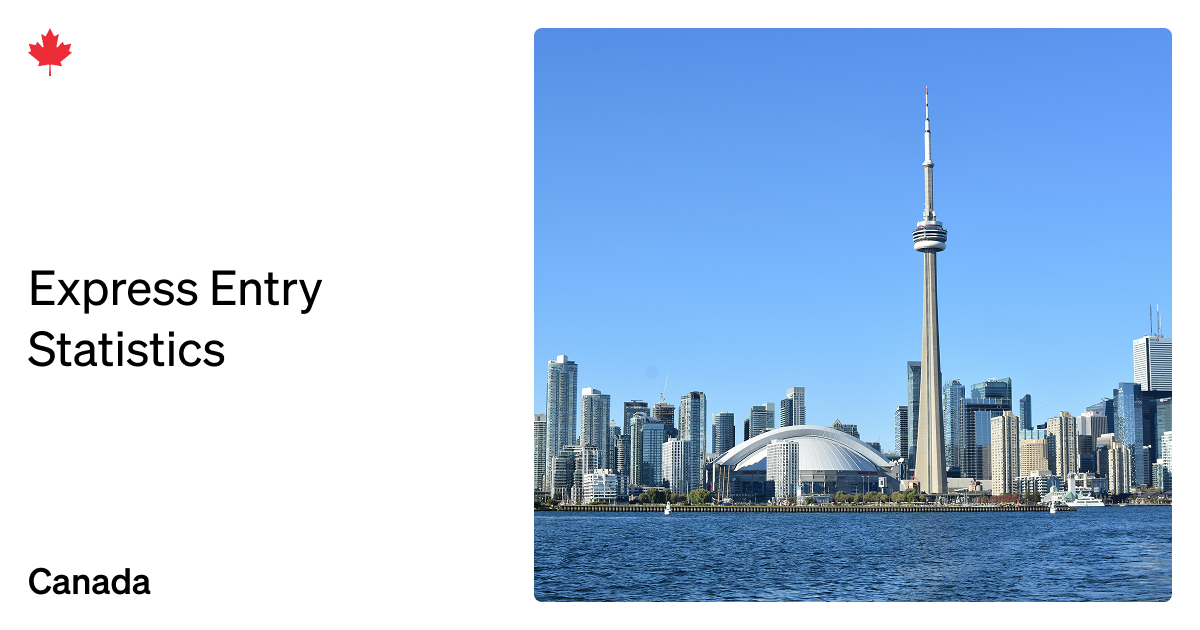
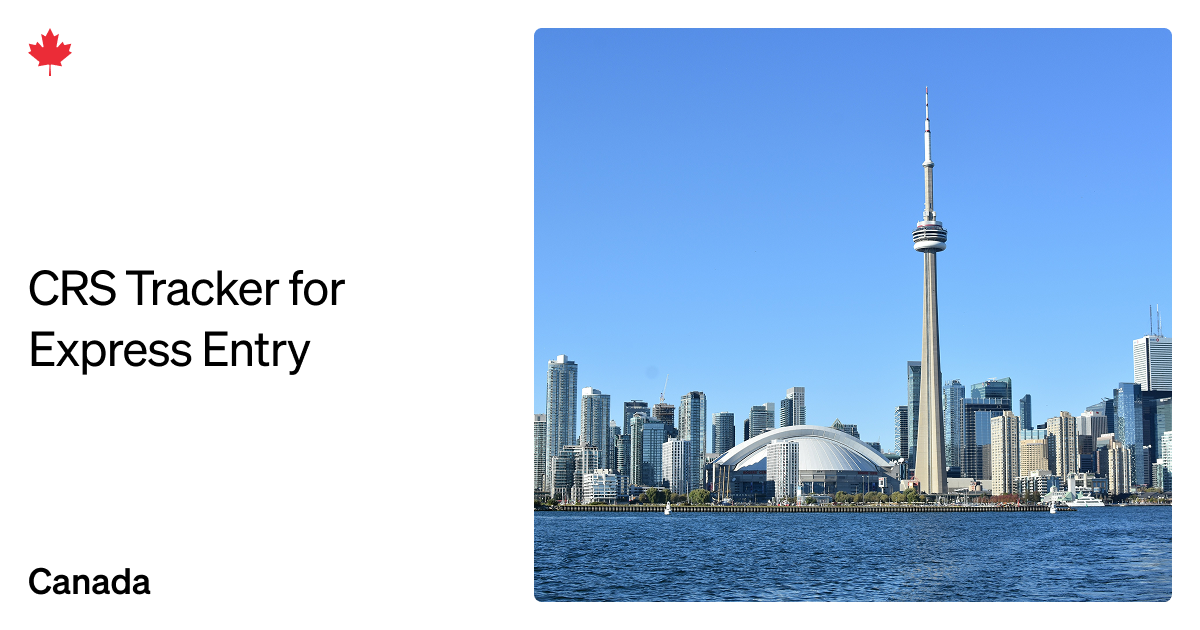
copy: rebrand to CRS Tracker

Changed region(s): [[0.0, 0.4222, 0.3083, 0.6032]]

diff --git a/frontend/app/page.tsx b/frontend/app/page.tsx
@@ -104,8 +104,8 @@ export default function Home() {
     <div className="flex min-h-screen items-center justify-center font-sans">
       <main className="flex min-h-screen w-full max-w-xl flex-col py-8 sm:py-14 px-5 gap-14 sm:gap-16">
         <section className="-mb-7 sm:-mb-8">
-          <p className="text-4xl sm:text-5xl font-medium mb-8">
-            Canada Express Entry Statistics
+          <p className="text-4xl sm:text-5xl mb-7 sm:mb-8 font-[440] tracking-[-0.02em] leading-[42px] sm:leading-14">
+            CRS Tracker for <br/> Express Entry
           </p>
           <p className="mb-6">
             All Express Entry draws since 2020 are tracked and automatically

diff --git a/frontend/app/layout.tsx b/frontend/app/layout.tsx
@@ -10,7 +10,7 @@ const sohne = localFont({
 
 export const metadata: Metadata = {
   metadataBase: new URL('https://ee-live.pages.dev'),
-  title: 'Canada Express Entry Statistics',
+  title: 'CRS Tracker',
   description:
     'Track CRS cutoff scores, invitations, and candidate pool data for Express Entry draws.',
   twitter: {
